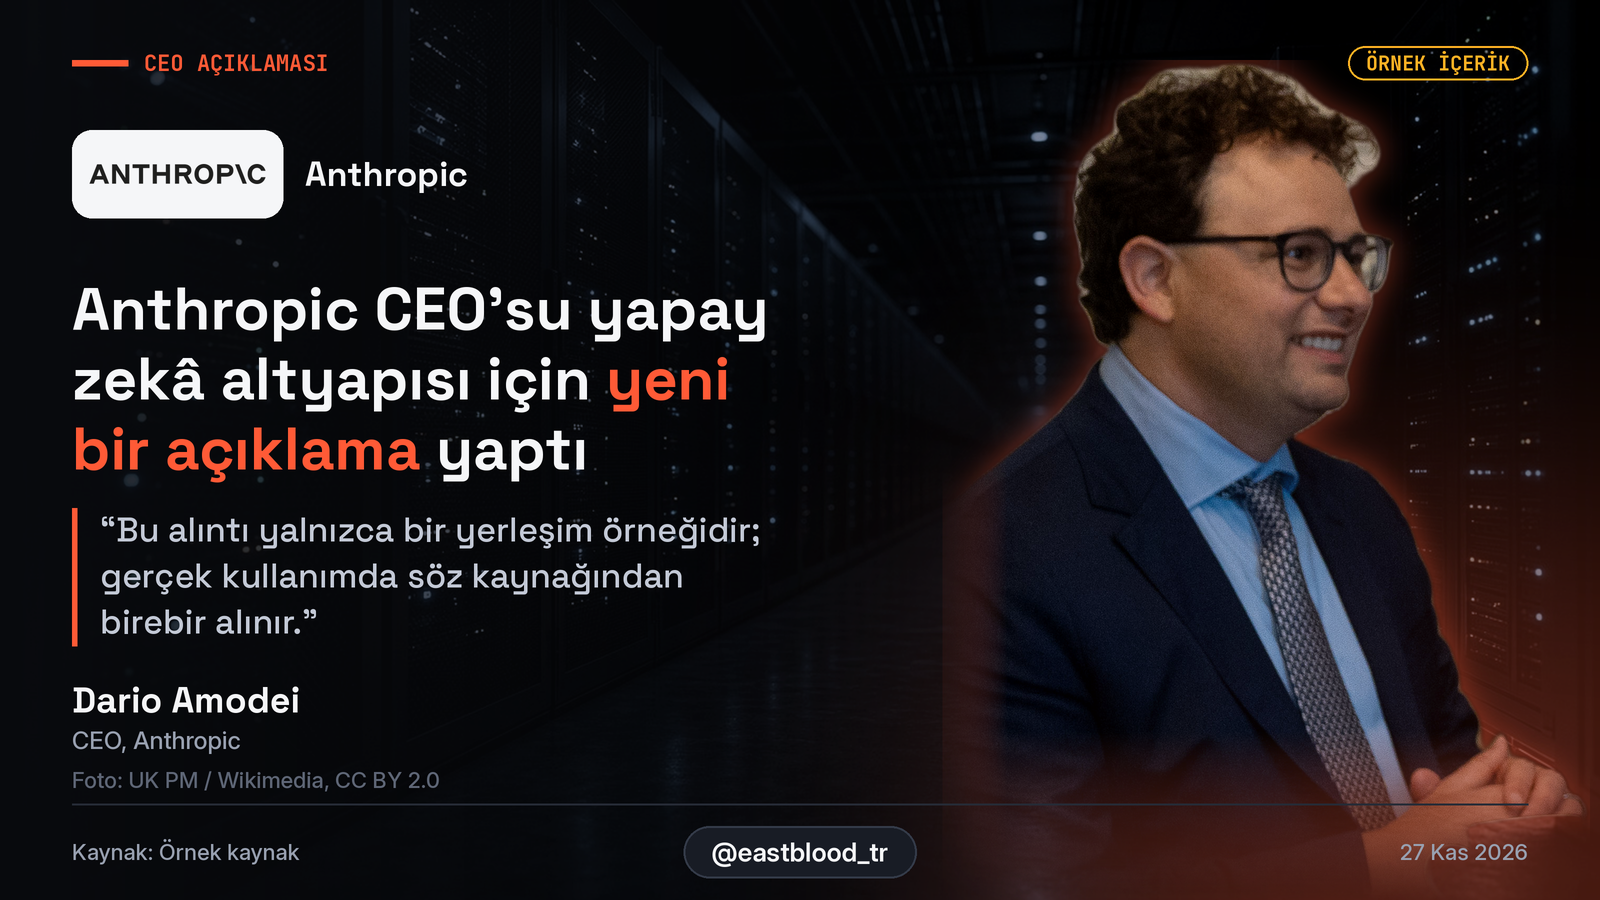
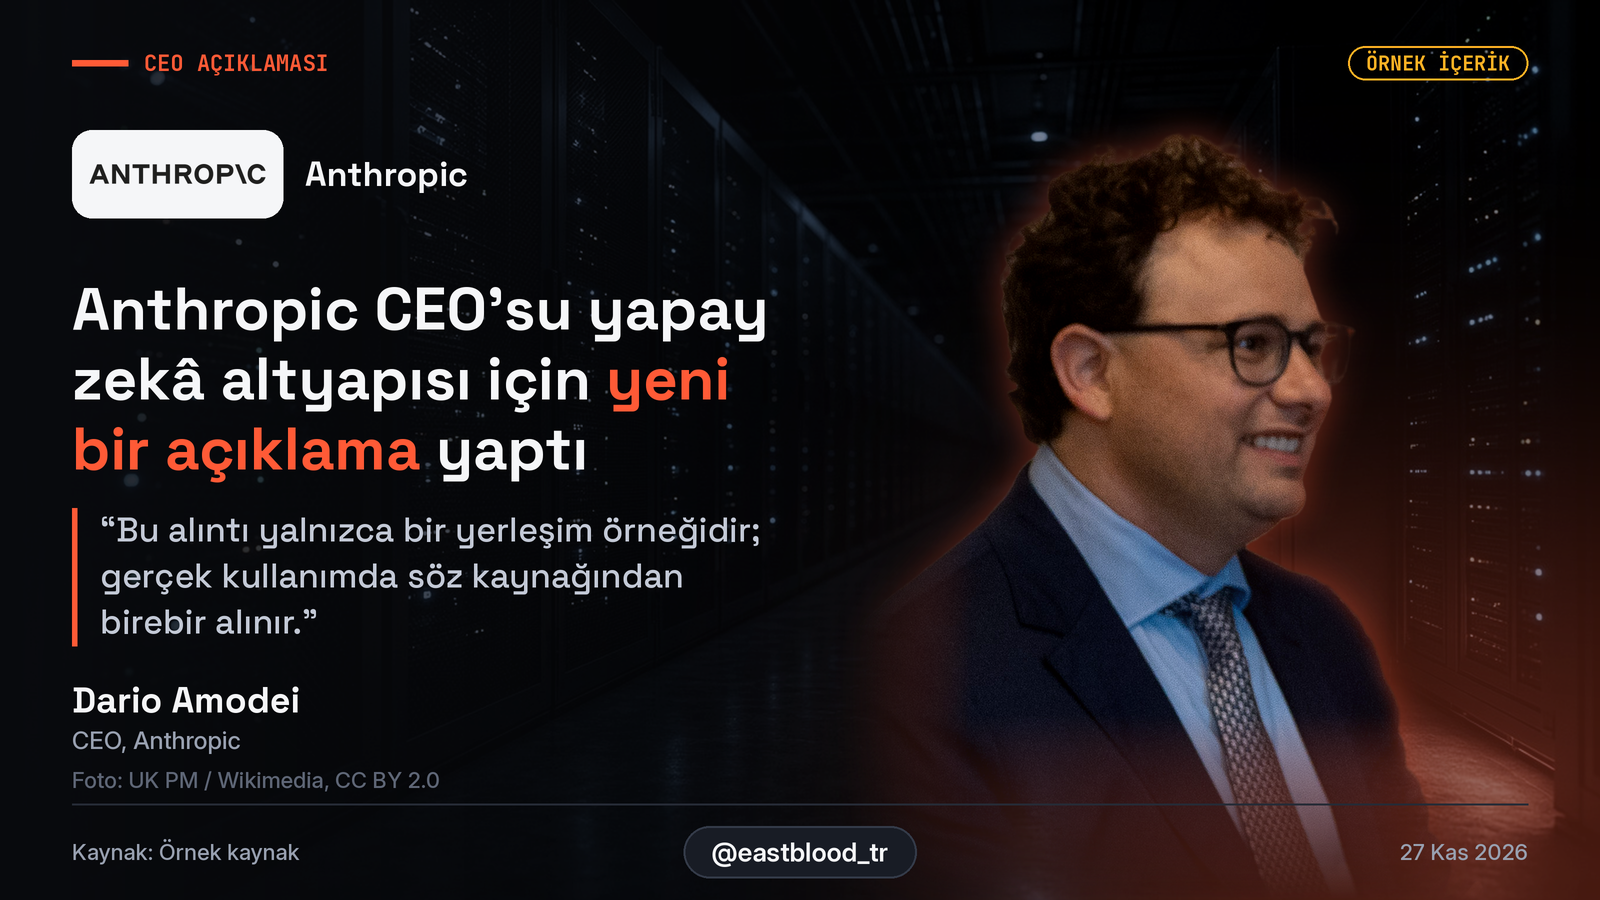
EB SIGNAL v1.1.1: T8 AI matting (birefnet-portrait zinciri, person_cutout), entegrasyon (light wrap, golge, alfa isigi), post/gorsel tamamlama kurali

Changed region(s): [[0.5938, 0.0622, 1.0, 0.9644], [0.5938, 0.5911, 0.625, 0.84], [0.6562, 0.7467, 0.6875, 0.7778]]

diff --git a/ebstyle.py b/ebstyle.py
@@ -306,20 +306,59 @@ def _fetch(path_or_url):
         open(cache, "wb").write(urllib.request.urlopen(req, timeout=60).read())
     return cache
 
-def cutout_person(path, max_side=1600):
-    """Real photo -> RGBA cutout via rembg (u2net_human_seg). Returns (img, method).
-    Fallback (rembg/onnx missing or fails): the photo in a rounded, feathered frame. The face is NEVER regenerated."""
-    im = Image.open(path).convert("RGB"); im.thumbnail((max_side, max_side), Image.LANCZOS)
+MATTING_CHAIN = ["birefnet-portrait", "birefnet-general", "isnet-general-use", "u2net_human_seg"]
+# model download sizes (rembg, one-time, ~/.rembg/models): birefnet-portrait ~928 MB, birefnet-general ~928 MB,
+# isnet-general-use ~170 MB, u2net_human_seg ~168 MB. CPU time on a 1600px photo: ~60 s / ~30 s / ~5 s / ~1 s (first run adds download).
+
+def _decontaminate(rgb_img, alpha_img):
+    """Remove background colour bleed on the edge (light halo): estimate true foreground colour under soft alpha."""
+    try:
+        from pymatting import estimate_foreground_ml
+        im = np.asarray(rgb_img).astype(np.float64)/255; al = np.asarray(alpha_img).astype(np.float64)/255
+        fg = estimate_foreground_ml(im, al)
+        return Image.fromarray((np.clip(fg, 0, 1)*255).astype(np.uint8))
+    except Exception:
+        return rgb_img
+
+def cutout_person(path, max_side=1600, precut=None, model=None):
+    """Real photo -> (RGBA cutout, method). Order of preference:
+       1. `precut` = an already cut-out RGBA PNG (path/URL) made by any other AI tool -> used as is (only edge refinement after).
+       2. `person` itself is a PNG with real transparency -> used as is.
+       3. rembg chain (best first): birefnet-portrait > birefnet-general > isnet-general-use (+alpha matting) > u2net_human_seg.
+          Force one with model=... or env EB_MATTING_MODEL. Result cached in tmp (re-renders are instant).
+       4. rembg/onnx unusable -> the photo in a rounded, feathered frame.
+    The face is NEVER regenerated or repainted; only cut, edge-cleaned and colour-graded."""
+    if precut:
+        pc = Image.open(_fetch(precut)).convert("RGBA")
+        if pc.getchannel("A").getextrema()[0] == 255: print("UYARI: precut PNG şeffaf değil")
+        return pc, "precut"
+    im0 = Image.open(path)
+    if im0.mode in ("RGBA", "LA") and im0.getchannel("A").getextrema()[0] < 250: return im0.convert("RGBA"), "png-alpha"
+    im = im0.convert("RGB"); im.thumbnail((max_side, max_side), Image.LANCZOS)
+    chain = [model or os.environ.get("EB_MATTING_MODEL")] if (model or os.environ.get("EB_MATTING_MODEL")) else MATTING_CHAIN
     try:
         from rembg import remove, new_session
-        out = remove(im, session=new_session("u2net_human_seg")).convert("RGBA")
-        if out.getchannel("A").getbbox() is None: raise RuntimeError("empty mask")
-        return out, "rembg"
     except Exception as e:  # noqa
-        print("UYARI: rembg yok/başarısız, yumuşak kenarlı çerçeve kullanılıyor:", type(e).__name__)
-        rgba = im.convert("RGBA"); m = Image.new("L", rgba.size, 0)
-        ImageDraw.Draw(m).rounded_rectangle([0, 0, rgba.width-1, rgba.height-1], radius=int(min(rgba.size)*0.06), fill=255)
-        rgba.putalpha(m.filter(ImageFilter.GaussianBlur(max(2, min(rgba.size)//60)))); return rgba, "frame"
+        remove = None; print("UYARI: rembg yok:", type(e).__name__)
+    if remove:
+        key = hashlib.md5((open(path, "rb").read() if os.path.exists(path) else path.encode())[:2000000]).hexdigest()
+        for m in chain:
+            cache = os.path.join(tempfile.gettempdir(), f"ebsignal_cut_{key}_{m}.png")
+            try:
+                if os.path.exists(cache): out = Image.open(cache).convert("RGBA")
+                else:
+                    out = remove(im, session=new_session(m), alpha_matting=(m == "isnet-general-use"),
+                                 alpha_matting_foreground_threshold=240, alpha_matting_background_threshold=15,
+                                 alpha_matting_erode_size=8).convert("RGBA")
+                    out.save(cache)
+                if out.getchannel("A").getbbox() is None: raise RuntimeError("empty mask")
+                return out, m
+            except Exception as e:  # noqa
+                print(f"UYARI: {m} başarısız ({type(e).__name__}), sıradaki model deneniyor")
+    print("UYARI: hiçbir matting modeli çalışmadı, yumuşak kenarlı çerçeve kullanılıyor")
+    rgba = im.convert("RGBA"); m = Image.new("L", rgba.size, 0)
+    ImageDraw.Draw(m).rounded_rectangle([0, 0, rgba.width-1, rgba.height-1], radius=int(min(rgba.size)*0.06), fill=255)
+    rgba.putalpha(m.filter(ImageFilter.GaussianBlur(max(2, min(rgba.size)//60)))); return rgba, "frame"
 
 def _cover(im, size):
     r = max(size[0]/im.width, size[1]/im.height); im = im.resize((int(im.width*r)+1, int(im.height*r)+1), Image.LANCZOS)
@@ -341,29 +380,52 @@ def t8(d, out):
     ov = Image.new("RGBA", cv.im.size, hx(C['bg'])); ov.putalpha(Image.fromarray(np.repeat((fade*215)[None, :], CH, 0).astype(np.uint8)))
     cv.im.alpha_composite(ov)
     cv.glow(1320, 760, 420, C['ember'], 70)
-    # --- person: cutout, grade, rim glow
-    cut, method = cutout_person(_fetch(d["person"]))
-    bb = cut.getchannel("A").point(lambda v: 255 if v > 24 else 0).getbbox(); cut = cut.crop(bb)
-    keep = float(d.get("person_crop_bottom", 0.80))            # keep top share of the cutout (bust)
-    cut = cut.crop((0, 0, cut.width, int(cut.height*keep)))
-    ph = int(S*(H-60)); pw = int(cut.width*ph/cut.height)
-    if pw > S*W*0.46: pw = int(S*W*0.46); ph = int(cut.height*pw/cut.width)
+    # --- person: AI matting -> edge refine -> colour match -> light wrap -> soft shadow -> alpha-following rim glow
+    cut, method = cutout_person(_fetch(d["person"]) if d.get("person") else None, precut=d.get("person_cutout"), model=d.get("matting_model"))
+    al = cut.getchannel("A"); bb = al.point(lambda v: 255 if v > 24 else 0).getbbox(); cut = cut.crop(bb)
+    W0, H0 = cut.size
+    # which sides of the photo frame cut the body (not the real silhouette): those get faded, never glowed or outlined
+    A0 = np.asarray(cut.getchannel("A")).astype(np.float32)/255
+    touch_l = A0[:, :3].mean() > 0.25; touch_r = A0[:, -3:].mean() > 0.25
+    keep = float(d.get("person_crop_bottom", 0.66))
+    cut = cut.crop((0, 0, W0, int(H0*keep))); H0 = cut.height
+    ph = int(S*(H-50)); pw = int(W0*ph/H0)
+    if pw > S*W*0.46: pw = int(S*W*0.46); ph = int(H0*pw/W0)
     cut = cut.resize((pw, ph), Image.LANCZOS)
+    rgb_i = _decontaminate(cut.convert("RGB"), cut.getchannel("A")) if method != "frame" else cut.convert("RGB")
     a = np.asarray(cut.getchannel("A")).astype(np.float32)/255
-    a = np.asarray(Image.fromarray((a*255).astype(np.uint8)).filter(ImageFilter.MinFilter(3)).filter(ImageFilter.GaussianBlur(S*0.8))).astype(np.float32)/255  # erode halo + soften edge
-    rgb = np.asarray(cut.convert("RGB")).astype(np.float32)/255; l = rgb.mean(axis=2, keepdims=True)
-    rgb = l + (rgb-l)*0.90                                   # slight desaturation
-    rgb = np.clip((rgb-0.5)*1.06+0.5, 0, 1)*np.array([0.97, 0.98, 1.0])
-    yy = np.linspace(0, 1, ph)[:, None, None]; rgb = rgb*(1-0.10*yy)   # gentle darkening to the bottom
-    xx = np.linspace(0, 1, pw)[None, :, None]; rgb = np.clip(rgb+np.array([0.10, 0.025, 0.0])*(xx**2.2), 0, 1)  # warm ember light on the right edge
-    fadeb = np.clip((1-np.linspace(0, 1, ph))/0.20, 0, 1)    # bottom 20% fades into the scene
-    a = a*fadeb[:, None]
-    edge = np.clip(np.linspace(0, 1, pw)/0.10, 0, 1); a = a*edge[None, :]   # soften the hard crop edge on the left of the photo
+    # edge refinement: tighten the matte a little (kills the faint halo), then 1px soften; contrast curve on the soft band
+    a_img = Image.fromarray((a*255).astype(np.uint8)).filter(ImageFilter.MinFilter(3)).filter(ImageFilter.GaussianBlur(S*0.7))
+    a = np.asarray(a_img).astype(np.float32)/255; a = np.clip((a-0.06)/0.88, 0, 1); a = a*a*(3-2*a)
+    # frame-cut sides: fade out smoothly so no straight panel edge is visible
+    xs_ = np.linspace(0, 1, pw)[None, :]; ys_ = np.linspace(0, 1, ph)[:, None]
+    a = a*np.clip((1-ys_)/0.24, 0, 1)                                   # bottom always melts into the scene
+    if touch_l: a = a*np.clip(xs_/0.16, 0, 1)
+    if touch_r: a = a*np.clip((1-xs_)/0.16, 0, 1)
     px_, py_ = CW-pw-int(S*10), CH-ph
-    glow = Image.fromarray((a*255).astype(np.uint8)).filter(ImageFilter.MaxFilter(7)).filter(ImageFilter.GaussianBlur(S*14))
-    ga = Image.new("RGBA", cut.size, hx(C['ember'])); ga.putalpha(glow.point(lambda v: int(v*0.42)))
-    cv.im.alpha_composite(ga, (px_, py_))
-    person = Image.fromarray((rgb*255).astype(np.uint8)).convert("RGBA"); person.putalpha(Image.fromarray((a*255).astype(np.uint8)))
+    region = cv.im.crop((px_, py_, px_+pw, py_+ph))
+    bgblur = np.asarray(region.convert("RGB").filter(ImageFilter.GaussianBlur(S*30))).astype(np.float32)/255
+    rgb = np.asarray(rgb_i).astype(np.float32)/255; l = rgb.mean(axis=2, keepdims=True)
+    rgb = l+(rgb-l)*0.90; rgb = np.clip((rgb-0.5)*1.05+0.5, 0, 1)*np.array([0.97, 0.98, 1.0])    # grade (face untouched otherwise)
+    fgm = (rgb*a[..., None]).sum((0, 1))/max(a.sum(), 1); bgm = bgblur.reshape(-1, 3).mean(0)
+    rgb = np.clip(rgb+(bgm-fgm)*0.18, 0, 1)                                                        # colour match to the scene
+    xx = xs_[..., None]; rgb = np.clip(rgb+np.array([0.10, 0.025, 0.0])*(xx**2.2), 0, 1)            # warm ember light from the right
+    inner = np.asarray(Image.fromarray((a*255).astype(np.uint8)).filter(ImageFilter.GaussianBlur(S*9))).astype(np.float32)/255
+    band = np.clip(1-inner, 0, 1)*a                                                                 # thin zone just inside the silhouette
+    rgb = rgb*(1-0.45*band[..., None])+bgblur*0.45*band[..., None]*1.15                              # light wrap from the scene
+    ember = np.array(hx(C['ember'])[:3], dtype=np.float32)/255
+    rgb = np.clip(rgb+ember*(band*np.clip(xs_*1.2, 0, 1))[..., None]*0.35, 0, 1)                    # ember rim kiss on the right edges
+    A_img = Image.fromarray((a*255).astype(np.uint8))
+    pad = int(S*60); big = (pw+2*pad, ph+2*pad)
+    def padded(im_): c_ = Image.new("L", big, 0); c_.paste(im_, (pad, pad)); return c_
+    Ap = padded(A_img)
+    shadow = Ap.filter(ImageFilter.GaussianBlur(S*26)).point(lambda v: int(v*0.60))                  # soft contact shadow
+    sh = Image.new("RGBA", big, (0, 0, 0, 0)); sh.putalpha(shadow)
+    cv.im.alpha_composite(sh, (px_-pad-int(S*22), py_-pad+int(S*10)))
+    glow = Ap.filter(ImageFilter.MaxFilter(5)).filter(ImageFilter.GaussianBlur(S*16)).point(lambda v: int(v*0.38))   # follows the matte, not a box
+    gl = Image.new("RGBA", big, hx(C['ember'])); gl.putalpha(glow)
+    cv.im.alpha_composite(gl, (px_-pad, py_-pad))
+    person = Image.fromarray((rgb*255).astype(np.uint8)).convert("RGBA"); person.putalpha(A_img)
     cv.im.alpha_composite(person, (px_, py_))
     # --- text (code only)
     top(cv, d.get("tag", "KİŞİ"), stamp_of(d))

diff --git a/render.py b/render.py
@@ -10,7 +10,8 @@ d = json.load(open(sys.argv[2], encoding="utf-8"))
 for k in ("source", "date"):
     if not d.get(k): sys.exit(f"'{k}' zorunlu (kaynak satırı görselin içinde olmalı)")
 if sys.argv[1].lower() == "t8":
-    for k in ("person", "person_name", "headline"):
+    if not (d.get("person") or d.get("person_cutout")): sys.exit("T8 için 'person' (foto) ya da 'person_cutout' (hazır şeffaf PNG) zorunlu")
+    for k in ("person_name", "headline"):
         if not d.get(k): sys.exit(f"T8 için '{k}' zorunlu (gerçek kişi fotoğrafı: yol veya URL; yüz asla AI ile üretilmez)")
 txt = json.dumps(d, ensure_ascii=False)
 if "—" in txt: sys.exit("em dash (—) yasak")

diff --git a/CHANGELOG.md b/CHANGELOG.md
@@ -3,6 +3,13 @@
 Kural: her değişiklik VERSION'ı artırır. MAJOR = şablon yapısı/palet değişimi, MINOR = yeni şablon veya yeni alan, PATCH = ölçü/renk ince ayarı, logo ekleme.
 Haftada en fazla 1-2 değişiklik, Doğukan onayından sonra. Her satır: tarih, sürüm, ne değişti, neden (hangi veri).
 
+## 1.1.1 · 2026-11-27
+- PATCH: T8 kesimi yapay zekâ matting'e geçti. Zincir birefnet-portrait > birefnet-general > isnet-general-use > u2net_human_seg > yumuşak çerçeve; `person_cutout` ile hazır şeffaf PNG verilebilir; `matting_model` / `EB_MATTING_MODEL` ile model zorlanır.
+- T8 entegrasyonu: kenar inceltme, halo temizliği (pymatting), sahneye renk eşitleme, light wrap, yumuşak temas gölgesi, alfayı izleyen ember ışıma, fotoğraf çerçevesinin kestiği kenarların sahneye erimesi. `person_crop_bottom` varsayılanı 0.66 (eller/masa nesneleri kadraj dışı).
+- Neden: eski u2net_human_seg saçta açık halo bırakıyordu, kişi sahneye oturmuyordu (Doğukan geri bildirimi).
+- Spec bölüm 12: görsel yazısı ile post metni birbirini tamamlar, aynı cümle tekrar edilmez.
+- Not: başka bir işçi `music/` ve `tools/video/` ekliyor; sürüm bu değişiklikle uyumlu şekilde PATCH artırıldı.
+
 ## 1.1.0 · 2026-11-27
 - MINOR: yeni şablon **T8 Kişi kompoziti** (gerçek kişi fotoğrafı + rembg ile otomatik kesim, konu zemini, ember kenar ışıması, EB SIGNAL fontları ve filigran). rembg yoksa yumuşak kenarlı çerçeve yedeği. Sert kurallar: yüz AI ile üretilmez/değiştirilmez, sahte alıntı yok, fiziksel varlık ima edilmez, foto kredisi.
 - Yeni `add_logo.py`: URL/dosya -> şeffaf kırpılmış PNG, #0A0C10 kontrast kontrolü, gerekirse `-white` sürüm, logos.csv satırı, `--push`.

diff --git a/README.md b/README.md
@@ -21,7 +21,8 @@ python add_logo.py --src https://.../logo.png --slug claude-code --name "Claude 
 ```
 - T8 sert kuralları: yüz asla AI ile üretilmez/değiştirilmez (yalnız kesme, kırpma, renk, ışık); sahte alıntı yok; kişinin orada olduğu ima edilmez; foto kaynağı kredilenir. Ayrıntı: EB_SIGNAL_SPEC.md bölüm 11.
 - Logo kütüphanesi büyür: haberdeki logo yoksa üreten ajan ekler, `git pull --rebase` ile push eder, başkasının logosunu silmez/yeniden adlandırmaz. Ayrıntı: bölüm 10, `add_logo.py --help`.
-- `rembg` ilk kullanımda ~176 MB'lık modeli indirir. Yoksa T8 yumuşak kenarlı çerçeve yedeğine düşer.
+- T8 kesimi AI matting: `birefnet-portrait` (varsayılan, ~928 MB indirme) > `birefnet-general` (~928 MB) > `isnet-general-use` (~170 MB) > `u2net_human_seg` (~168 MB) > yumuşak çerçeve. Kendi AI aracınla kestiysen JSON'a `"person_cutout": "kesilmis.png"` ver. Ayrıntı: spec bölüm 11.
+- Görsel yazısı ile post metni birbirini tamamlar, aynı cümleyi tekrar etmez: spec bölüm 12.
 - `examples/amodei_2023.jpg`: Wikimedia Commons, "Dario Amodei in 2023", fotoğraf UK Prime Minister (Flickr), CC BY 2.0. Sadece örnek içindir.
 
 ## Değişmez kurallar
